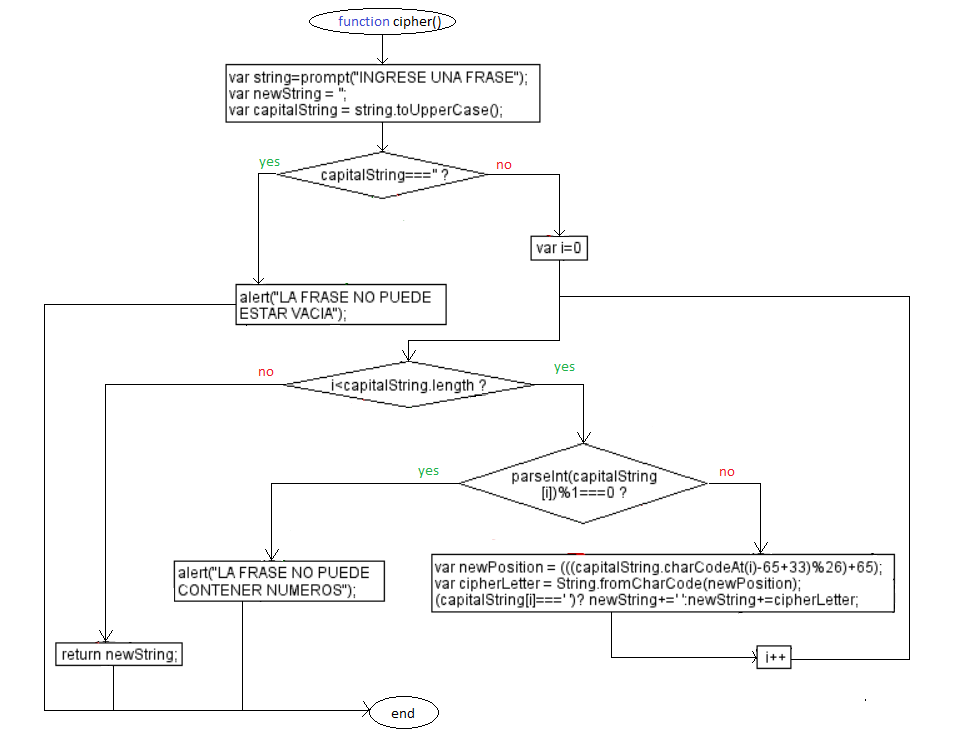
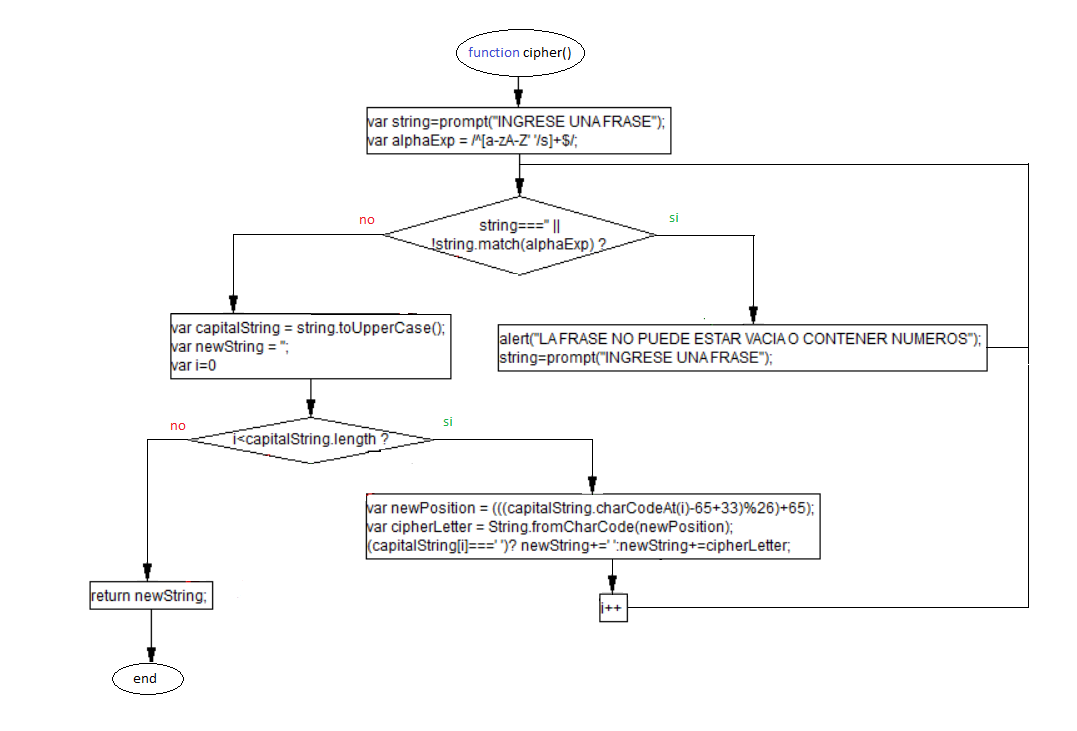
cifrado y decifrado cesar -- 11/10

diff --git a/js/app.js b/js/app.js
@@ -1,38 +1,34 @@
 function cipher(){
   var string=prompt("INGRESE UNA FRASE");
-  var newString = '';
-  var capitalString = string.toUpperCase();
+  var alphaExp = /^[a-zA-Z' '/s]+$/;
 
-  if(capitalString==='')
-    alert("LA FRASE NO PUEDE ESTAR VACIA");
-  else{
-        for(var i=0; i<capitalString.length; i++){
-          if(parseInt(capitalString[i])%1===0){
-            alert("LA FRASE NO PUEDE CONTENER NUMEROS");
-            break;
-          }
-        else{
-          var newPosition = (((capitalString.charCodeAt(i)-65+33)%26)+65);
-          var cipherLetter = String.fromCharCode(newPosition);
-          (capitalString[i]===' ')? newString+=' ':newString+=cipherLetter;
-        }
-    }
-    return newString;
+  while(string==='' || !string.match(alphaExp)){
+    alert("LA FRASE NO PUEDE ESTAR VACIA O CONTENER NUMEROS");
+    string=prompt("INGRESE UNA FRASE");
   }
+
+  var capitalString = string.toUpperCase();
+  var newString = '';
+
+  for(var i=0; i<capitalString.length; i++){
+    var newPosition = (((capitalString.charCodeAt(i)-65+33)%26)+65);
+    var cipherLetter = String.fromCharCode(newPosition);
+    (capitalString[i]===' ')? newString+=' ':newString+=cipherLetter;
+  }
+    return newString;
 }
 
-
-function decipher(string){
+function descipher(string){
    var oldString='';
 
    for(var j=0; j<string.length; j++)
    {
      var position = (((string.charCodeAt(j)+65-33)%26)+65);
-     var decipherLetter =String.fromCharCode(position);
-     (string[j]===' ')? oldString+=' ':oldString+=decipherLetter;
+     var descipherLetter =String.fromCharCode(position);
+     (string[j]===' ')? oldString+=' ':oldString+=descipherLetter;
    }
-   alert("TU NOMBRE CIFRADO ES: "+" "+string)
-   alert("TU NOMBRE DECIFRADO ES: "+" "+oldString)
+   alert("TU NOMBRE CIFRADO ES:"+" "+string)
+   alert("TU NOMBRE DECIFRADO ES:"+" "+oldString)
 }
 
-decipher(cipher());
+descipher(cipher());

diff --git a/index.html b/index.html
@@ -5,8 +5,22 @@
   <title>TARJETA DE CREDITO VALIDA</title>
   <script src="js/app.js"></script>
 </head>
-<body>
-  <h1>pinkyCoders</h1>
-  <section></section>
+<body BGCOLOR="#000000">
+  <center>
+    <h1>
+      <font color ="#FF0099">pinkyCoders</font>
+    </h1>
+  </center>
+  <h3>
+    <font color ="#FF6699">
+      Esta pagina te pide ingresar una tarjeta de credito
+    </font>
+  </h3>
+  <p>
+    <font color ="#CC0066">
+      Para confirmar su validez deben ser 14 digitos y estar compuesta solamente por valores numericos, (no se aceptan STRINGS)
+    </font>
+  </p>
+  <div align="right"><img src="image/pinki y cerebro.jpg"></div>
 </body>
 </html>

diff --git a/README.md b/README.md
@@ -1,45 +1,35 @@
 # CIFRADO CESAR
 
 ### PSEUDO CODIGO FUNCION CIPHER:
+
 ###### creamos una funcion llamada cipher
-function cipher()
-###### ingresamos una frase por medio de un prompt la cual se almacenará en un string
+function cipher(){
+###### ingresamos una frase por medio de un prompt la cual se almacenará en un string, asi mismo creamos una variable llamada "alphaExp", esta admitira letras en minuscula, mayuscula y espacios en blanco.
   var string=prompt("INGRESE UNA FRASE");
+  var alphaExp = /^[a-zA-Z' '/s]+$/;
+###### mientras que el string no tenga ningun valor ingresado o no coincida con el "alphaExp"
+  while(string==='' || !string.match(alphaExp)){
+###### aparecera un cuadro de alerta con especificaciones ademas de un cuadro de dialogo indicando que ingresemos una frase
+    alert("LA FRASE NO PUEDE ESTAR VACIA O CONTENER NUMEROS");
+    string=prompt("INGRESE UNA FRASE");
+###### cierre del WHILE
+  }
 ###### El contenido del string pasara a mayusculas y se almacenara en la variable capitalString  
   var capitalString = string.toUpperCase();
 ###### Creamos una variable vacia llamda newString
   var newString = '';
-###### Si capitalString no tiene ningun valor ingresado
-  if(capitalString==='')
-###### Saldra una ventana de alerta indicando la inexistencia de la frase
-    alert("LA FRASE NO PUEDE ESTAR VACIA");
-###### caso contrario
-  else{
 ###### iniciaremos un bucle donde se creara la variable i con el valor de 0 hasta el i menor que la cantidad de caracteres que tiene el string (delimitamos el tamaño) y se recorre el string de 1 en 1
-        for(var i=0; i<capitalString.length; i++){
-###### Si capitalString dividida entre 1 da el valor de cero
-          if(parseInt(capitalString[i])%1===0){
-###### Saldra una ventana de alerta indicando que la frase no puede contener numeros debido a que los caracteres no dejan residuo de 0, solo los numeros.
-            alert("LA FRASE NO PUEDE CONTENER NUMEROS");
-###### Para que no exista un bucle infinito terminamos abruptamente todo el proceso.
-            break;
-          }
-###### Ademas
-        else{
-###### la posicion en i del string en mayusculas (capitalString) se volvera un dato numerico salido del codico ASCII gracias al "charCodeAt", se le hace una resta de 65 y una suma de 33 (numero fijo cualquiera para cifrar el string) se le saca modulo de 26 (porque solo hay 26 letras en mayuscula) y se le vuelve a sumar 65. A todo esto lo almacenamos en una variable creada llamada newPosition
-          var newPosition = (((capitalString.charCodeAt(i)-65+33)%26)+65);
+  for(var i=0; i<capitalString.length; i++){
+###### la posicion en i del string en mayusculas (capitalString) se volvera un dato numerico salido del codico ASCII gracias al "charCodeAt", se le hace una resta de 65 y una suma de 33 (numero fijo cualquiera para cifrar el string) se le saca modulo de 26 (porque solo hay 26 letras en mayuscula) y se le vuelve a sumar 65. A todo esto lo almacenamos en una variable creada llamada newPosition.
+    var newPosition = (((capitalString.charCodeAt(i)-65+33)%26)+65);
 ###### Luego con el String.fromCharCode convertiremos el numero que se determino en "newPosition" a un caracter debido a que el numero ES la nueva posicion en el codigo ASCII
-          var cipherLetter = String.fromCharCode(newPosition);
+    var cipherLetter = String.fromCharCode(newPosition);
 ###### SI el capitalString en la posicion i es un espacio en blanco, el newString solo agrega un espacio en blanco, caso contrario el newString agrega la letra cifrada a la nueva frase (cipherLetter)
-          (capitalString[i]===' ')? newString+=' ':newString+=cipherLetter;
-###### se cierra el ELSE
-        }
+    (capitalString[i]===' ')? newString+=' ':newString+=cipherLetter;
 ###### se cierra el FOR
-    }
+  }
 ###### devuelve la el nuevo string formado en los pasos anteriores
     return newString;
-###### se cierra el primer else
-  }
 ###### termina la funcion cipher
 }
 
@@ -67,7 +57,7 @@ function decipher(string){
 ###### termina la funcion decipher
 }
 
+![descifrado cesar](image/decipher.png)
+
 ###### finalmente escribimos las funciones para que se ejecuten
 decipher(cipher());
-
-![descifrado cesar](image/decipher.png)
